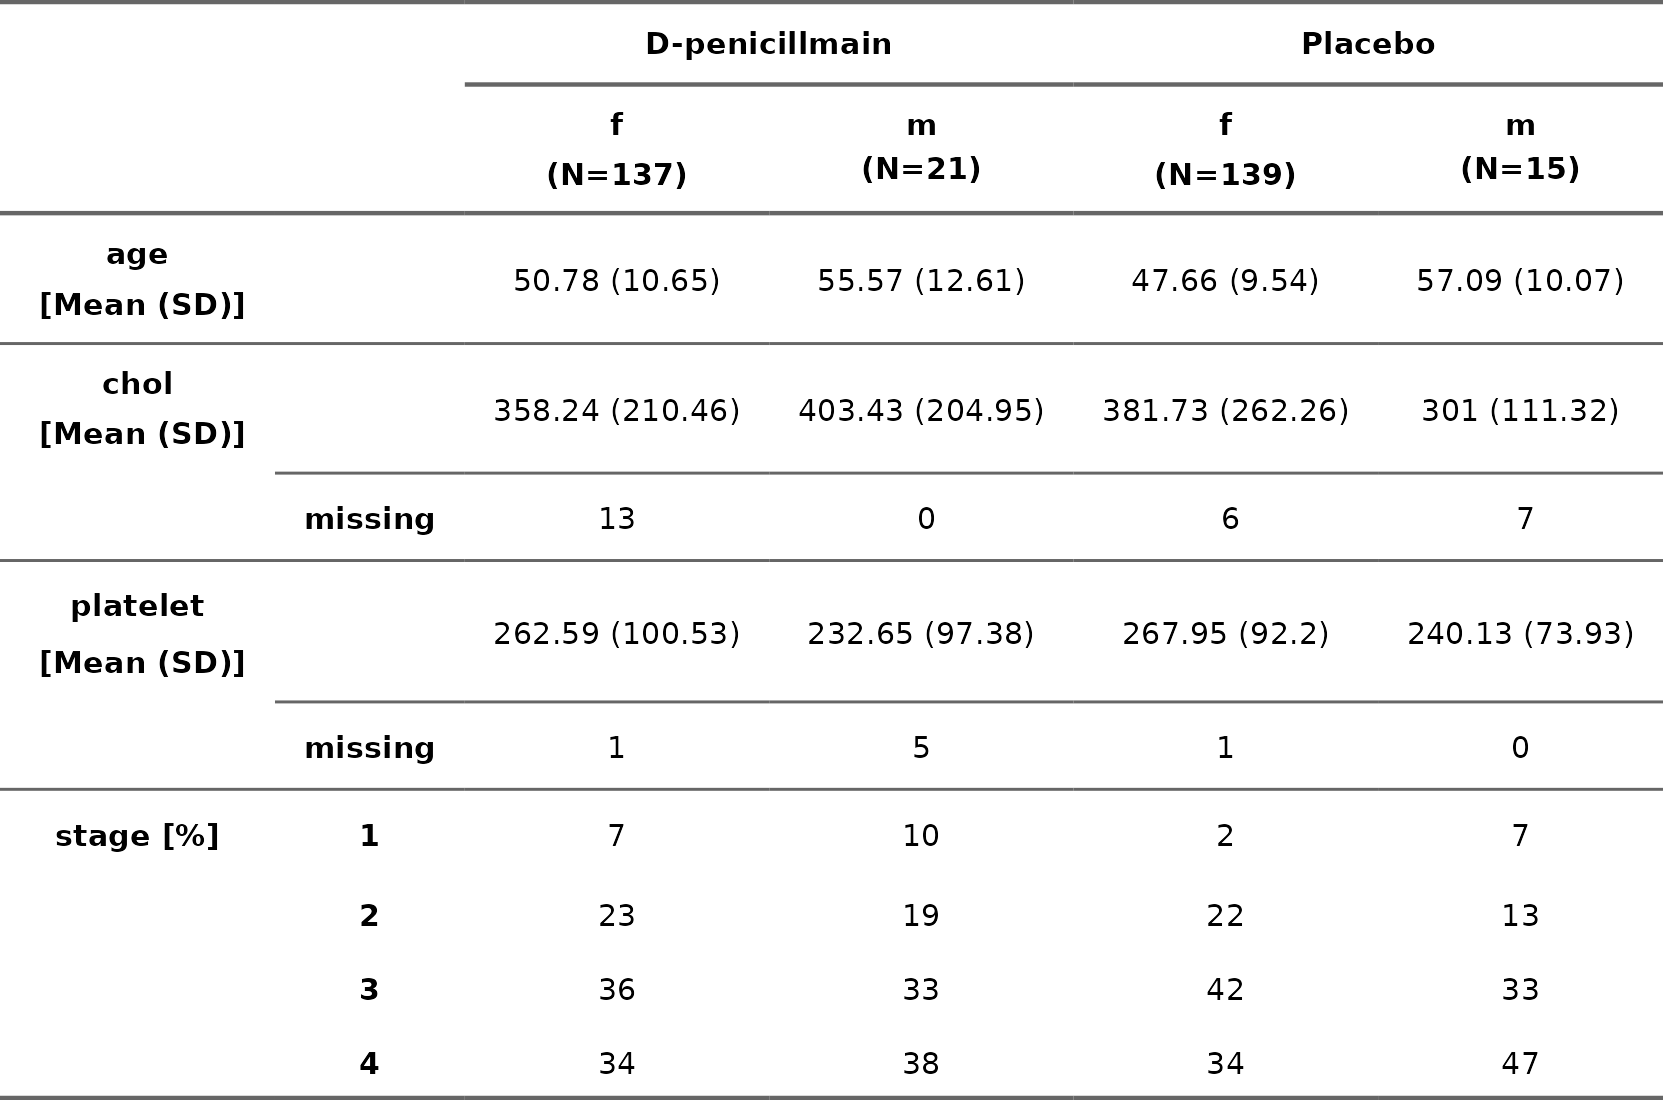
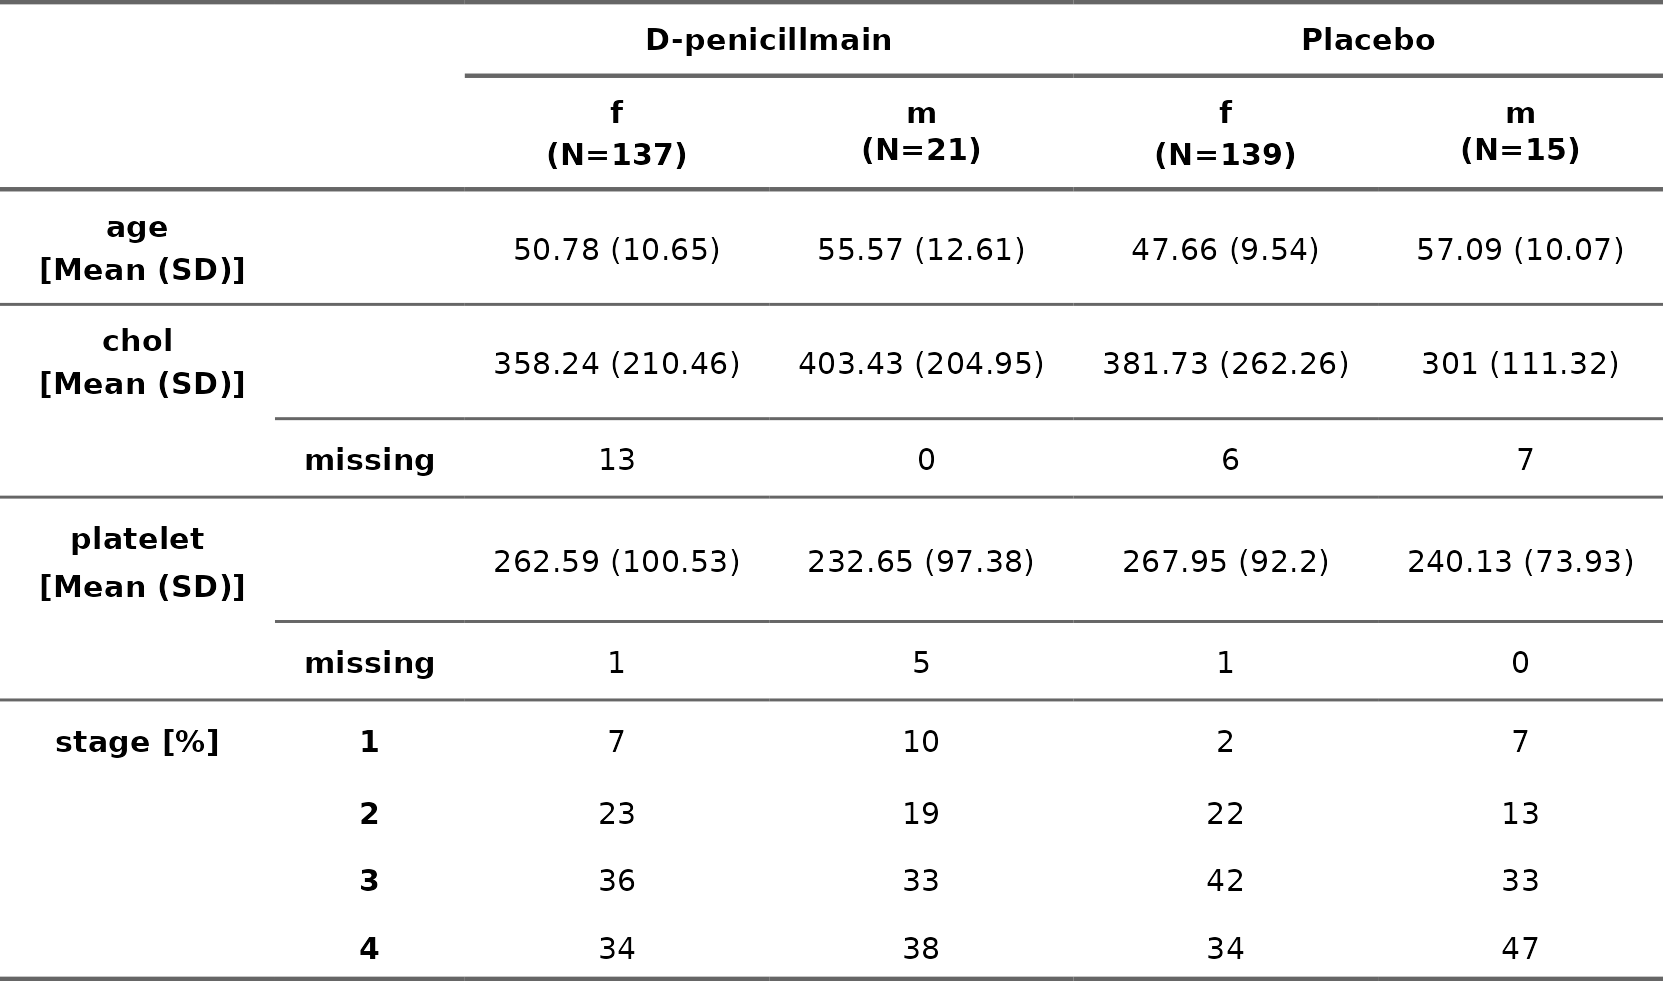
Updating the README

diff --git a/README.md b/README.md
@@ -65,22 +65,22 @@ pbc <- pbc %>%
      filter(!is.na(trt)) %>%
      mutate(trt = ifelse(trt == "1", "D-penicillmain", "Placebo"))
 
- tab1_ex <- Table1_flex(
+ tab1_example <- Table1_flex(
      data = pbc,
      variables = baseline_var 
    )
 
-tab1_ex %>%
+tab1_example %>%
    line_spacing(space = 1.7, part = "all") %>%
    autofit() 
 ```
 
-<img src="man/figures/README-unnamed-chunk-2-1.png" width="50%" />
+<img src="man/figures/README-unnamed-chunk-2-1.png" width="37%" />
 
 ### Table 1 for two treatment arms
 
 ``` r
-tab1_ex <- Table1_flex(
+tab1_example <- Table1_flex(
   data = pbc,
   variables = baseline_var,
   group_var = "trt",
@@ -91,12 +91,12 @@ tab1_ex <- Table1_flex(
   measures_num = c("median", "min", "max")
 )
 
-tab1_ex %>%
+tab1_example %>%
    line_spacing(space = 1.7, part = "all") %>%
    autofit() 
 ```
 
-<img src="man/figures/README-unnamed-chunk-3-1.png" width="50%" />
+<img src="man/figures/README-unnamed-chunk-3-1.png" width="52%" />
 
 ### Table 1 for nested groups
 
@@ -106,7 +106,7 @@ subgroups within superior groups
 ``` r
 
 baseline_var <- c("age", "chol", "platelet", "stage")
-tab1_ex <- Table1_flex(
+tab1_example <- Table1_flex(
   data = pbc,
   variables = baseline_var,
   group_var = "sex",
@@ -117,9 +117,9 @@ tab1_ex <- Table1_flex(
   flextable_output = TRUE
 )
 
-tab1_ex %>%
-   line_spacing(space = 2.0, part = "all") %>%
+tab1_example %>%
+   line_spacing(space = 1.7, part = "all") %>%
    autofit() 
 ```
 
-<img src="man/figures/README-unnamed-chunk-4-1.png" width="50%" />
+<img src="man/figures/README-unnamed-chunk-4-1.png" width="60%" />
